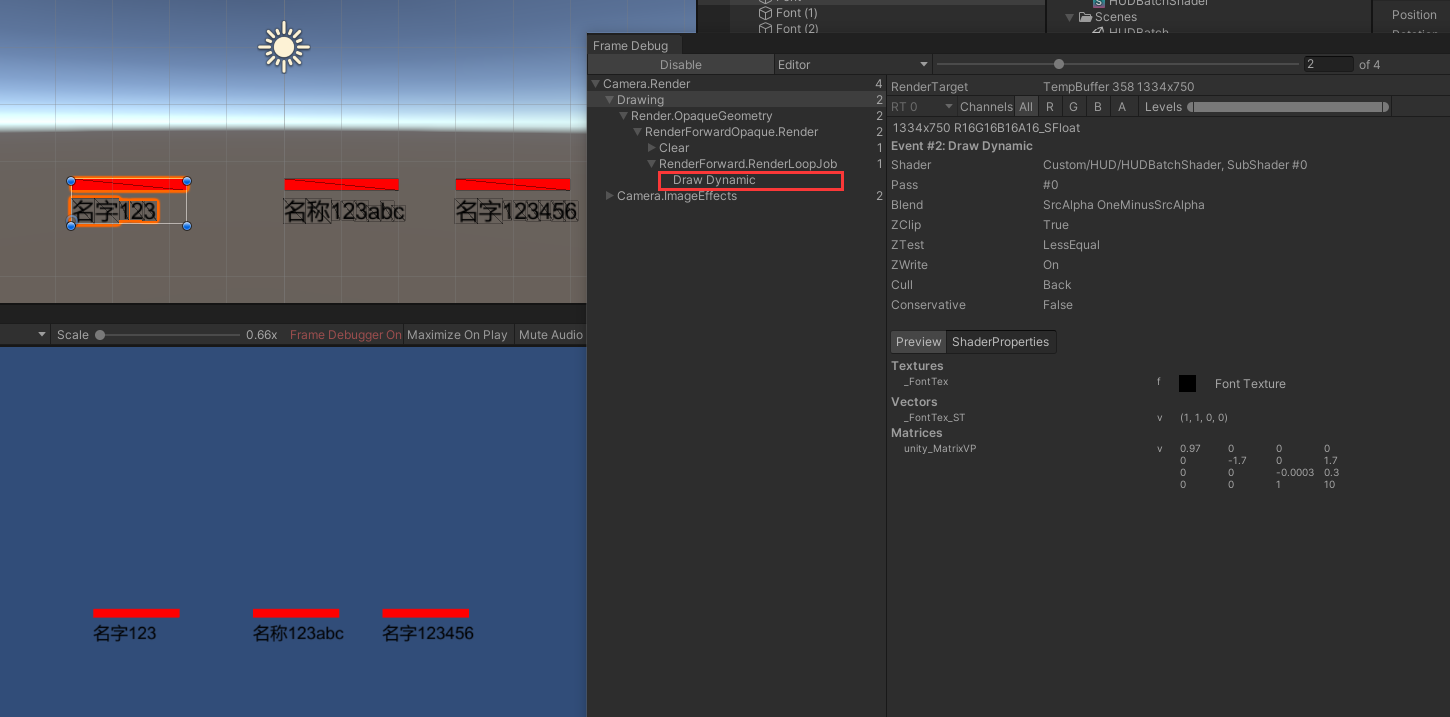
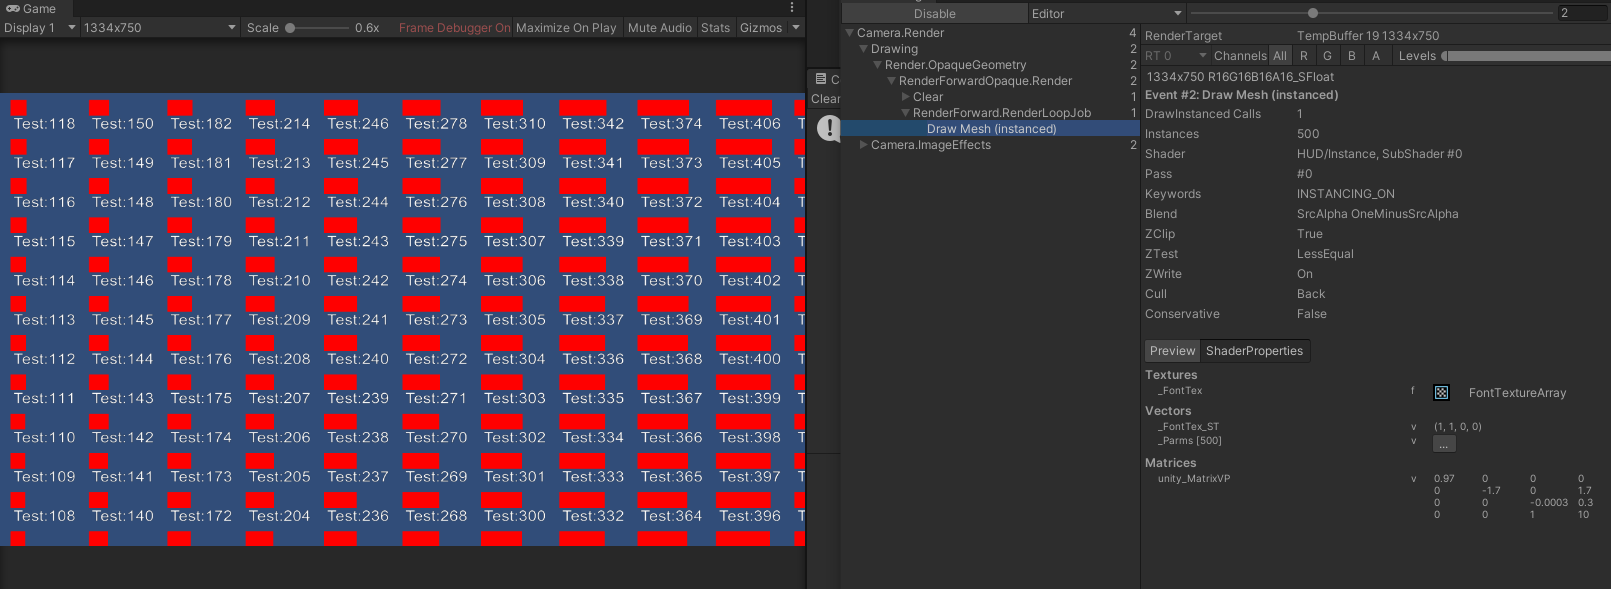
readme

diff --git a/README.md b/README.md
@@ -5,9 +5,11 @@
 主要用于游戏中的HUD合批，实现了一个批次渲染所有HUD
 
 
-## 核心技术
+## 技术介绍
 
-1.使用了Text渲染到纹理Array，参考
+1.使用了Text渲染到纹理Array，参考FontRender2Texture
+2.构建Instance需要的Mesh，参考HUDMeshBuild
+3.HUDInstanced使用Graphics.DrawMeshInstanced绘制
 
 
 ## 效果演示
